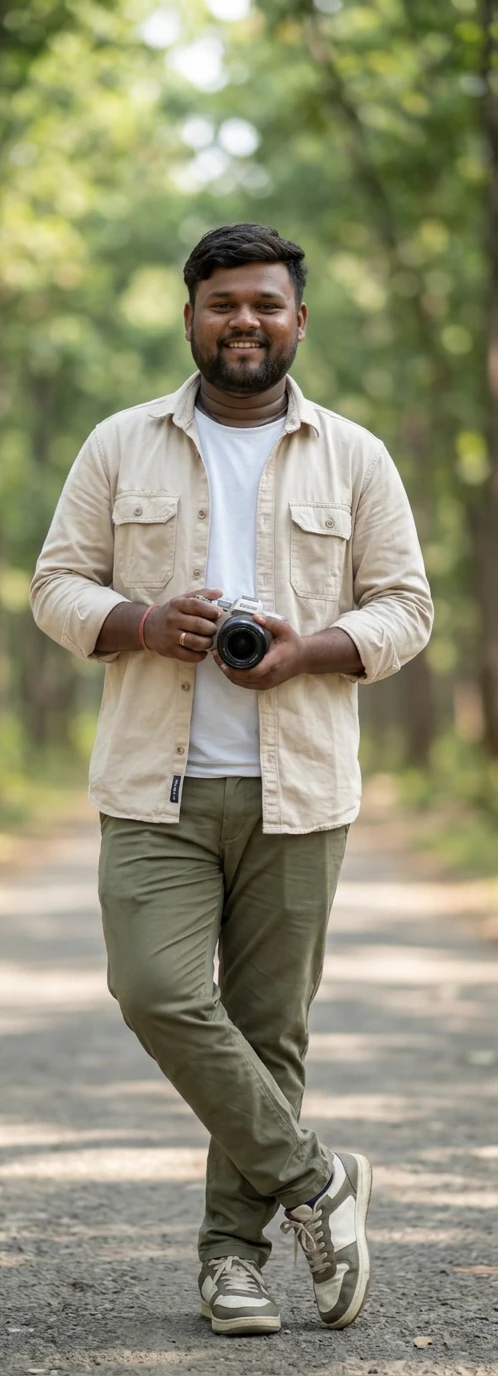
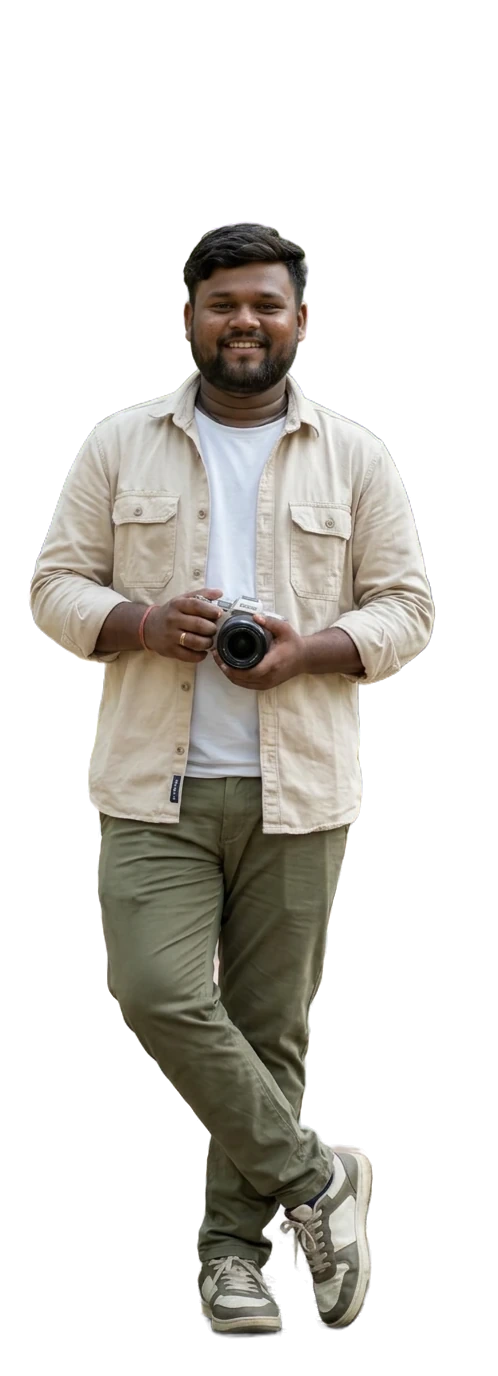
Remove backgrounds from Shiva's portraits so they sit as cutouts.
Keep the same files and frames, drop the photo backdrops, and bump the service-worker cache so returning visitors pick up the new images.

diff --git a/src/components/layout/SiteFooter.tsx b/src/components/layout/SiteFooter.tsx
@@ -48,6 +48,10 @@ export function SiteFooter() {
         {/* phones and tablets: the invitation, then portrait and case side by side; wide: all three in a row */}
         <div className="shell relative grid grid-cols-2 items-end gap-x-4 gap-y-10 pt-20 md:grid-cols-12 md:gap-6 md:pt-24">
           <div className="relative order-2 w-full max-w-[15rem] justify-self-center md:col-span-6 md:max-w-[19rem] lg:order-1 lg:col-span-3" data-reveal="rise">
+            <span
+              aria-hidden
+              className="pointer-events-none absolute bottom-[0.4%] left-[18%] right-[18%] z-0 h-[1.6%] rounded-[50%] bg-[radial-gradient(ellipse_at_center,rgb(16_24_40/0.22),transparent_70%)] blur-[2px]"
+            />
             <Image
               src="/images/portraits/shirt.webp"
               alt="Shiva in a light button-down shirt, holding a drone controller"
@@ -55,7 +59,7 @@ export function SiteFooter() {
               height={1681}
               sizes="(min-width: 768px) 19rem, 45vw"
               quality={85}
-              className="h-auto w-full"
+              className="relative z-[1] h-auto w-full"
             />
           </div>
           <div className="order-1 col-span-2 pb-4 md:col-span-12 lg:order-2 lg:col-span-6 lg:pb-24">

diff --git a/src/content/about.ts b/src/content/about.ts
@@ -2,8 +2,9 @@
  * About section content for Shiva.
  *
  * The five "links of the chain" become the five stages of a shoot: plan, fly, frame, post, deliver.
- * TODO: the portrait photographs are AI-generated placeholders — replace the files in
- * /public/images/portraits with Shiva's own pictures (keep the file names).
+ * Portrait files are cutouts: transparent WebP, same canvas as the original frame.
+ * TODO: these photographs are AI-generated placeholders — replace the files in
+ * /public/images/portraits with Shiva's own pictures (keep the file names and the alpha channel).
  */
 
 export type PortraitId = "operations" | "office" | "suit" | "field" | "casual";

diff --git a/next.config.ts b/next.config.ts
@@ -3,6 +3,8 @@ import type { NextConfig } from "next";
 const nextConfig: NextConfig = {
   reactStrictMode: true,
   poweredByHeader: false,
+  // the review preview is served from a proxied host, not localhost
+  allowedDevOrigins: ["*.e2b.app"],
   // the floating development badge could be mistaken for part of the design during review
   devIndicators: false,
   images: {

diff --git a/public/sw.js b/public/sw.js
@@ -7,7 +7,7 @@
  *    scripts and the image sizes this screen actually uses, so the whole site works offline.
  * Anything cross-origin (Instagram, YouTube ...), non-GET, or /api/* goes straight to the network. */
 
-const V = "v2";
+const V = "v3";
 const PAGES = `pages-${V}`;
 const STATIC = `static-${V}`;
 const MEDIA = `media-${V}`;
